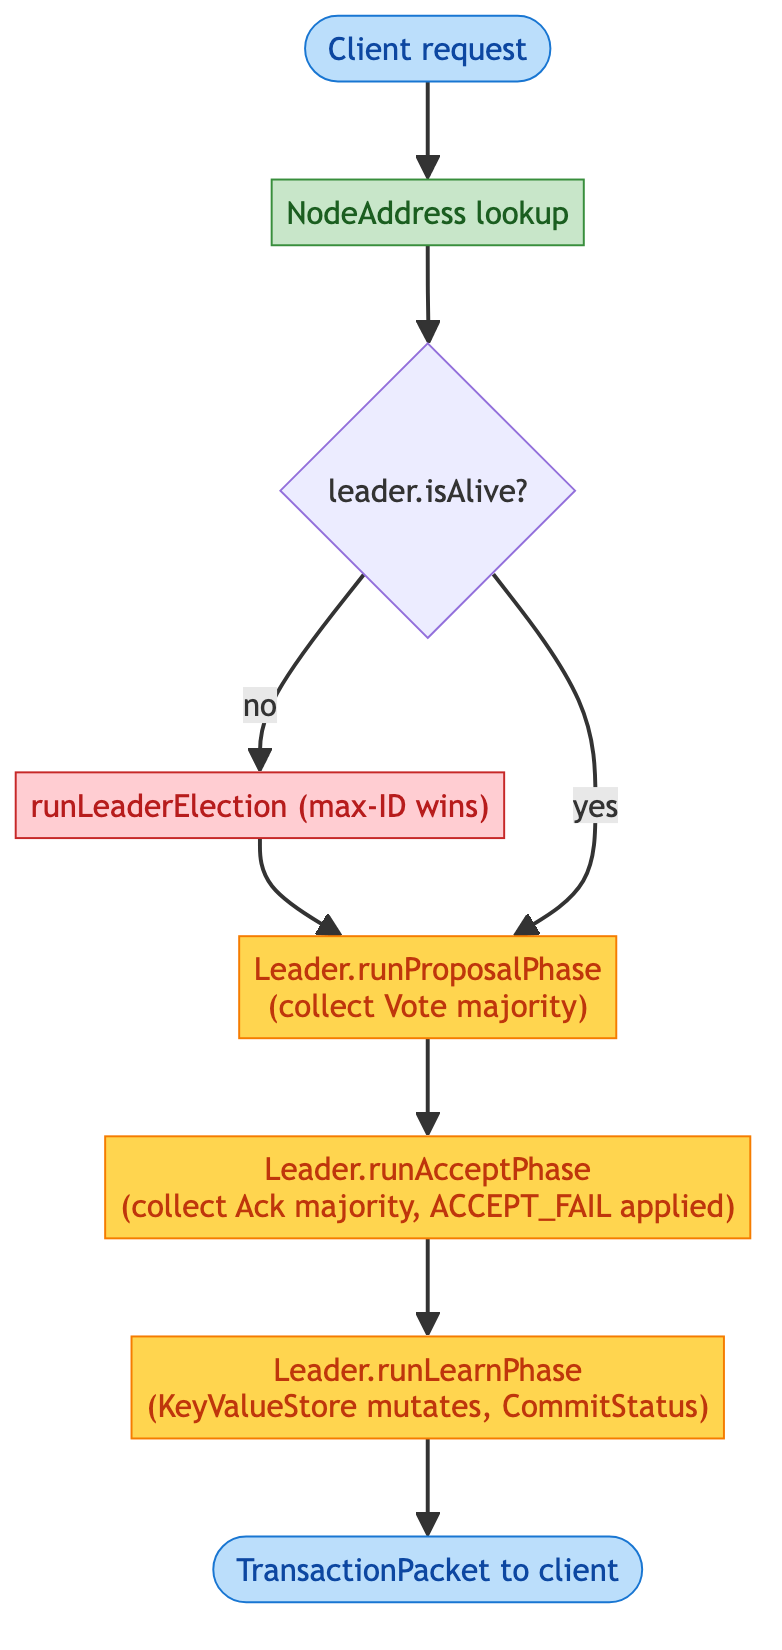
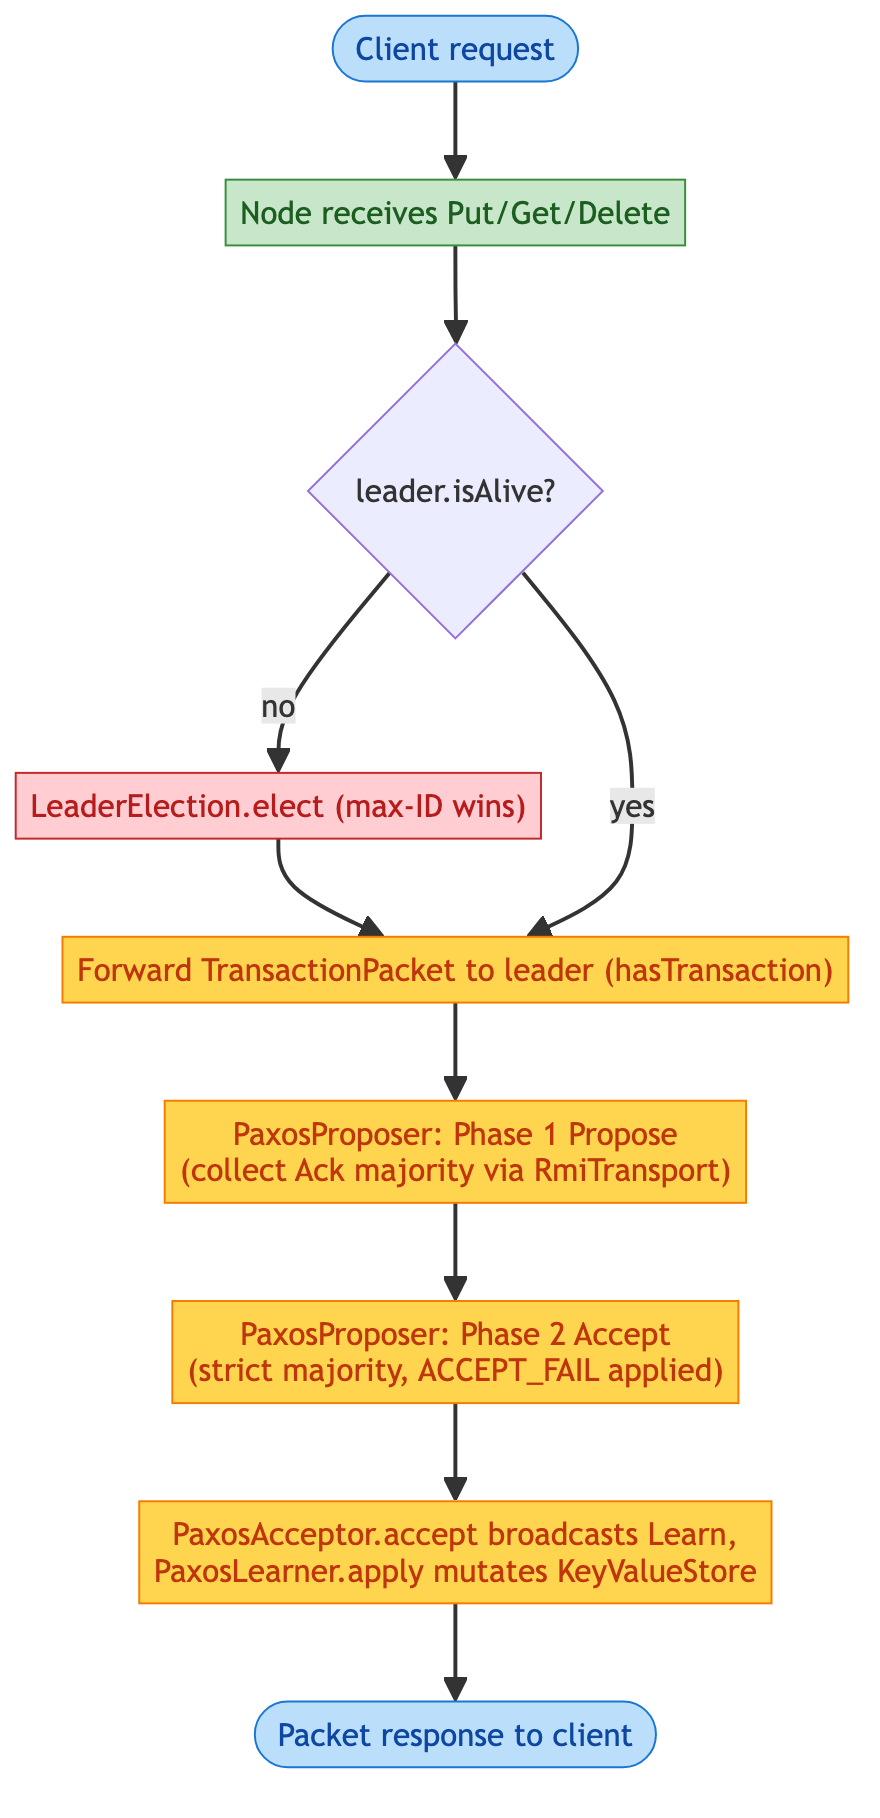
docs: refresh transaction flow and lifecycle diagram for current code
Update section 7 transaction-flow steps to name PaxosProposer, PaxosAcceptor,
PaxosLearner, LeaderElection, RmiTransport and KvTasks, and re-render the
lifecycle PNG and PDF to match.

diff --git a/docs/DESIGN_DOC.md b/docs/DESIGN_DOC.md
@@ -177,12 +177,13 @@ manuel.rpckvstore/
 
 ## Transaction Flow
 
-1. The client calls `Put` / `Get` / `Delete` on any node via RMI.
-2. The receiving node checks `leader.isAlive()` and, if needed, runs `runLeaderElection()` (max-ID wins) before forwarding the transaction to the leader.
-3. The leader runs Phase 1 (Propose) on all acceptors with a fresh `n`. A majority of `Ack.YES` is required to proceed.
-4. The leader runs Phase 2 (Accept) on all acceptors with `(n, v)`. Acceptors whose promise still matches `n` reply with the accepted packet; stale proposals come back marked `Ignored`. `ACCEPT_FAIL` is applied here.
-5. The leader runs Phase 3 (Learn) on every node, which dispatches the operation through `KeyValueStore` and returns the response to the client.
-6. If any phase falls short of a majority, the leader picks a larger `n` and retries from Phase 1.
+1. The client calls `Put` / `Get` / `Delete` on any node via RMI. `Node.routeThroughLeader()` is the entry point.
+2. The receiving node checks `leader.isAlive()`; if the leader is missing or dead, it drops the leader from `PeerDirectory`, calls `ClusterMembership.informOfNewNode()` to push the new view, and runs `LeaderElection.elect()` (max-ID wins).
+3. The node forwards a `TransactionPacket` to the leader via `BaseServer.hasTransaction()`.
+4. On the leader, `PaxosProposer.propose()` runs a round with a fresh proposal id (`sequenceNumber + "." + nodeId`). Phase 1 (Propose) collects votes from all peers via `RmiTransport`; a strict majority of `Ack.YES` is required.
+5. Phase 2 (Accept) is run in parallel using a per-round thread pool. Each peer's `PaxosAcceptor.accept()` either returns the packet marked `Ignored` (its promise has moved on), or -- with probability `1 - ACCEPT_FAIL` -- broadcasts `Learn` to every peer and applies the packet locally through `PaxosLearner`. Per-peer futures are bounded by `PaxosConfig.ACCEPT_PHASE_TIMEOUT_MS` (100 ms).
+6. `PaxosLearner.apply()` dispatches the packet through `KvTasks` against the in-memory `KeyValueStore` and returns the response.
+7. If the round falls short of a majority at any phase, `PaxosProposer` retries with a fresh sequence number up to `PaxosConfig.PROPOSER_MAX_ATTEMPTS` (10). After that, it throws `RemoteException`.
 
 ## Cluster Topology
 